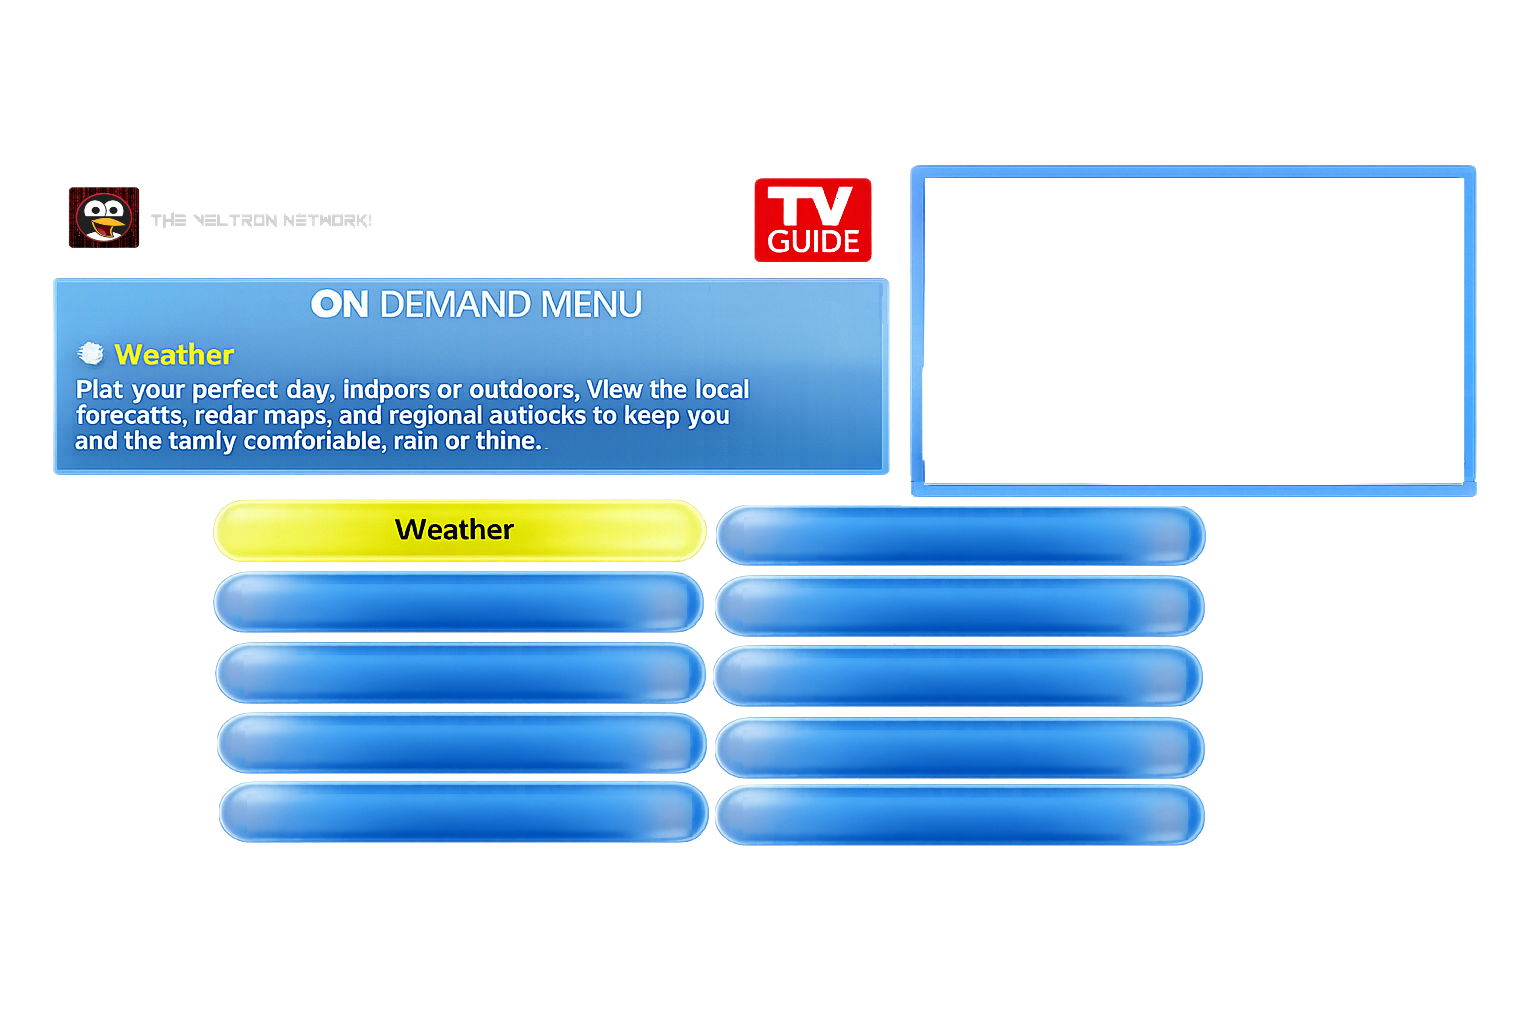
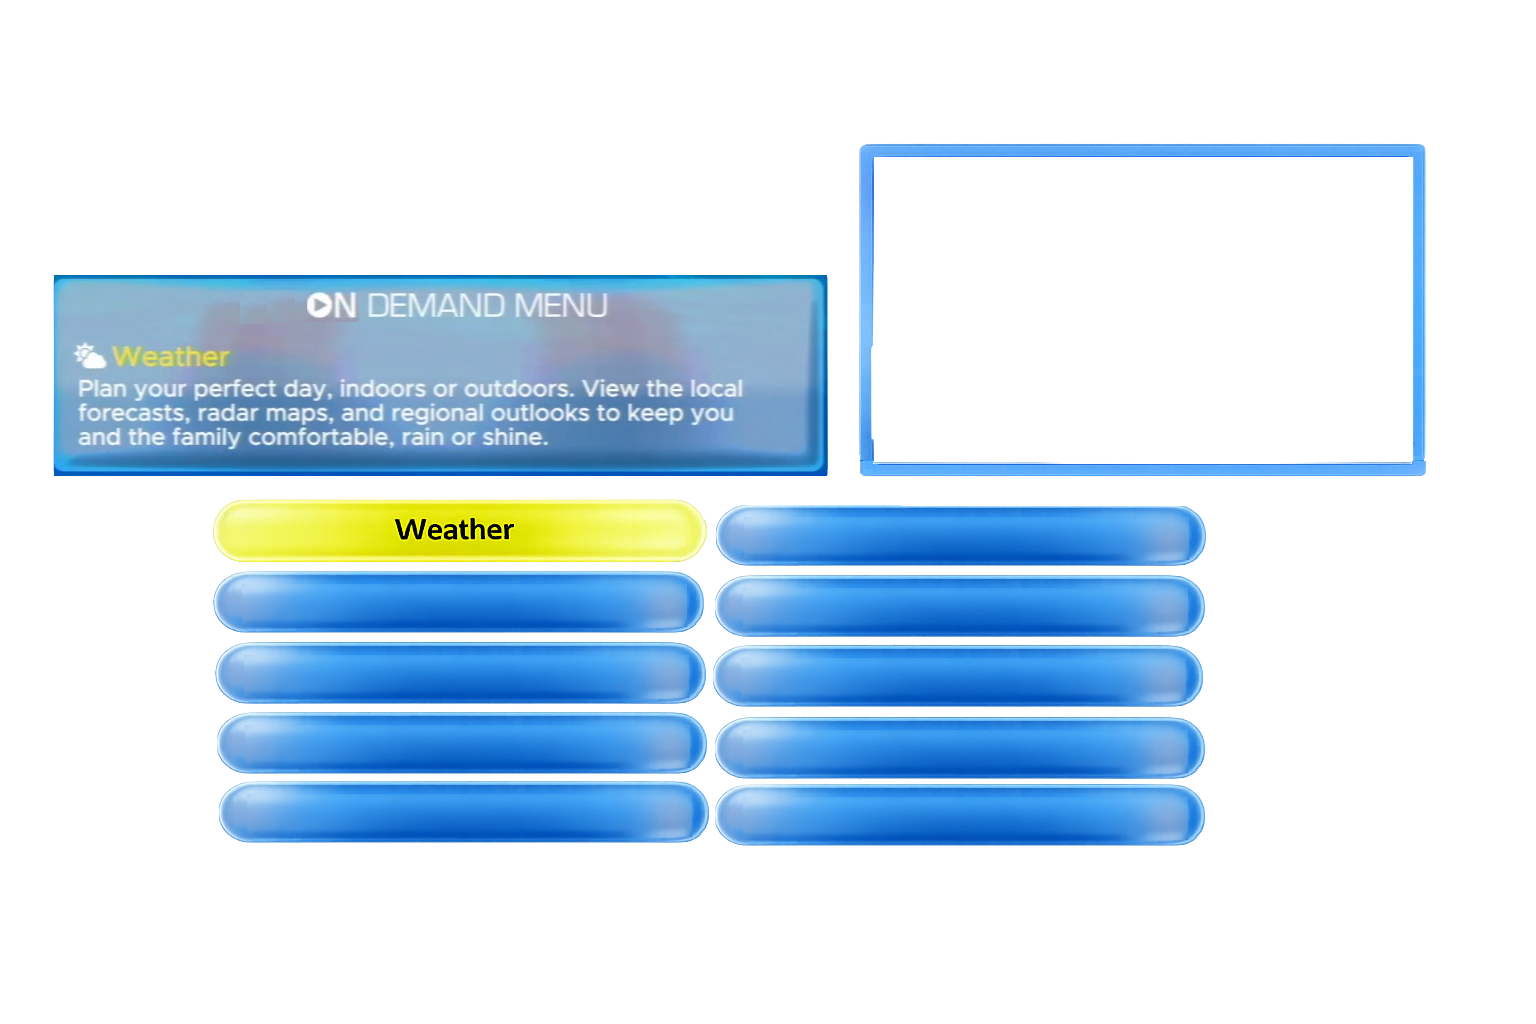
Add files via upload

Changed region(s): [[0.0312, 0.125, 0.9688, 0.5]]

diff --git a/v2.html b/v2.html
@@ -1,91 +1,137 @@
 <!DOCTYPE html>
 <html lang="en">
 <head>
-  <meta charset="UTF-8">
-  <meta name="viewport" content="width=device-width, initial-scale=1.0">
-  <title>Double Background</title>
+<meta charset="UTF-8">
+<meta name="viewport" content="width=device-width, initial-scale=1.0">
+<title>On Demand Simulator</title>
 
-  <style>
-    body {
-      margin: 0;
-      height: 100vh;
+<style>
+body {
+  margin: 0;
+  height: 100vh;
 
-      /* TWO BACKGROUNDS */
-      background-image:
-        url("testing.png"),
-        url("background.png");
+  background-image: url("testing.png"), url("background.png");
+  background-size: cover, cover;
+  background-position: center, center;
+  background-repeat: no-repeat, no-repeat;
 
-      background-size: cover, cover;
-      background-position: center, center;
-      background-repeat: no-repeat, no-repeat;
+  display: flex;
+  justify-content: center;
+  align-items: center;
+  font-family: Arial, sans-serif;
+  color: white;
 
-      display: flex;
-      justify-content: center;
-      align-items: center;
-      font-family: Arial, sans-serif;
-      color: white;
+  position: relative;
+  overflow: hidden;
+}
 
-      position: relative;
-      overflow: hidden;
-    }
+.content {
+  text-align: center;
+  text-shadow: 0 2px 5px rgba(0,0,0,0.7);
+  z-index: 2;
+}
 
-    .content {
-      text-align: center;
-      text-shadow: 0 2px 5px rgba(0,0,0,0.7);
-      z-index: 2;
-    }
+.brand {
+  width: 450px;
+  height: 110px;
+  position: absolute;
+  top: 55px;
+  left: 50px;
+}
 
-    /* CLOCK OVERLAY */
-    #clock {
+/* CLOCK */
+#clock {
+  position: absolute;
+  top: 110px;
+  right: 980px;
+
+  font-size: 2rem;
+
+  padding: 6px 10px;
+  border-radius: 10px;
+
+  text-shadow: 2px 2px 2px rgba(0,0,0,0.6);
+  z-index: 5;
+}
+
+.clock-img {
+  width: 420px;
+  height: 150px;
+  position: absolute;
+  top: 23px;
+  right: 700px;
+}
+
+/* TEXT ITEMS */
+#text1, #text2, #text3, #text4,
+#text5, #text6, #text7, #text8, #text9 {
+  position: absolute;
+  font-size: 1.4rem;
+  font-weight: 900;
+  text-shadow: 2px 2px 2px rgba(0,0,0,0.6);
+  white-space: nowrap;
+}
+
+#text1 { top: 560px; right: 1200px; }
+#text2 { top: 645px; right: 1200px; }
+#text3 { top: 730px; right: 1220px; }
+#text4 { top: 820px; right: 1230px; }
+
+#text5 { top: 480px; right: 650px; }
+#text6 { top: 565px; right: 530px; }
+#text7 { top: 655px; right: 550px; }
+#text8 { top: 740px; right: 590px; }
+#text9 { top: 820px; right: 600px; }
+
+
+
+    .visual iframe {
+      width: 665px;
+      height: 378px;
+      border: 0px;
       position: absolute;
-      top: 130px;
-      right: 970px;
-
-      font-size: 1.4rem;
-      #font-weight: 900;
-      #olor: #ffe88a;
-
-      padding: 6px 10px;
-      border-radius: 10px;
-
-      text-shadow: 2px 2px 2px rgba(0,0,0,0.6);
-      z-index: 5;
-      white-space: nowrap;
+      top: 35px;
+      right: 148px;
     }
 
-
-        .clock-img {
-      width: 520px;
-      height: 165px;
-      position: absolute;
-      top: 23px;
-      right: 625px;}
-
-  </style>
+</style>
 </head>
 
 <body>
+            <div class="visual">
+        <iframe src="https://v2.weatherscan.net/" title="WeatherScan"></iframe>
+</div>
+<img src="https://www.veltron.net/images/site-banner.png" class="brand">
 
-  <div id="clock"></div>
-          <img src="https://external-content.duckduckgo.com/iu/?u=https%3A%2F%2Fwww.fandom.com%2Fbrand%2Fimages%2FTV-Guide_Logo_Family-Brands_1-p-3200.png&f=1&nofb=1&ipt=10d7c206e9bd996071105821925c3c6f77b22999e5585350b27728e73509dcc9" alt="icon" class="clock-img">
-  <div class="content">
-  </div>
+<div id="clock">--:--</div>
 
-  <script>
-    function updateClock() {
-      const now = new Date();
-      let h = now.getHours();
-      let m = now.getMinutes().toString().padStart(2, '0');
+<img src="https://external-content.duckduckgo.com/iu/?u=https%3A%2F%2Fwww.fandom.com%2Fbrand%2Fimages%2FTV-Guide_Logo_Family-Brands_1-p-3200.png" class="clock-img">
 
-      const ampm = h >= 12 ? 'PM' : 'AM';
-      h = h % 12 || 12;
+<div id="text1">Premium Channels</div>
+<div id="text2">Cable Favourites</div>
+<div id="text3">Local News</div>
+<div id="text4">Primetime</div>
+<div id="text5">Movies</div>
+<div id="text6">Celebrity Entertainment</div>
+<div id="text7">VELTRON TV Choice</div>
+<div id="text8">HD On Demand</div>
+<div id="text9">Saved Searches</div>
 
-      document.getElementById('clock').textContent = `${h}:${m} ${ampm}`;
-    }
+<script>
+function updateClock() {
+  const now = new Date();
+  let h = now.getHours();
+  let m = now.getMinutes().toString().padStart(2, '0');
 
-    setInterval(updateClock, 1000);
-    updateClock();
-  </script>
+  const ampm = h >= 12 ? 'PM' : 'AM';
+  h = h % 12 || 12;
+
+  document.getElementById('clock').textContent = `${h}:${m} ${ampm}`;
+}
+
+setInterval(updateClock, 1000);
+updateClock();
+</script>
 
 </body>
 </html>